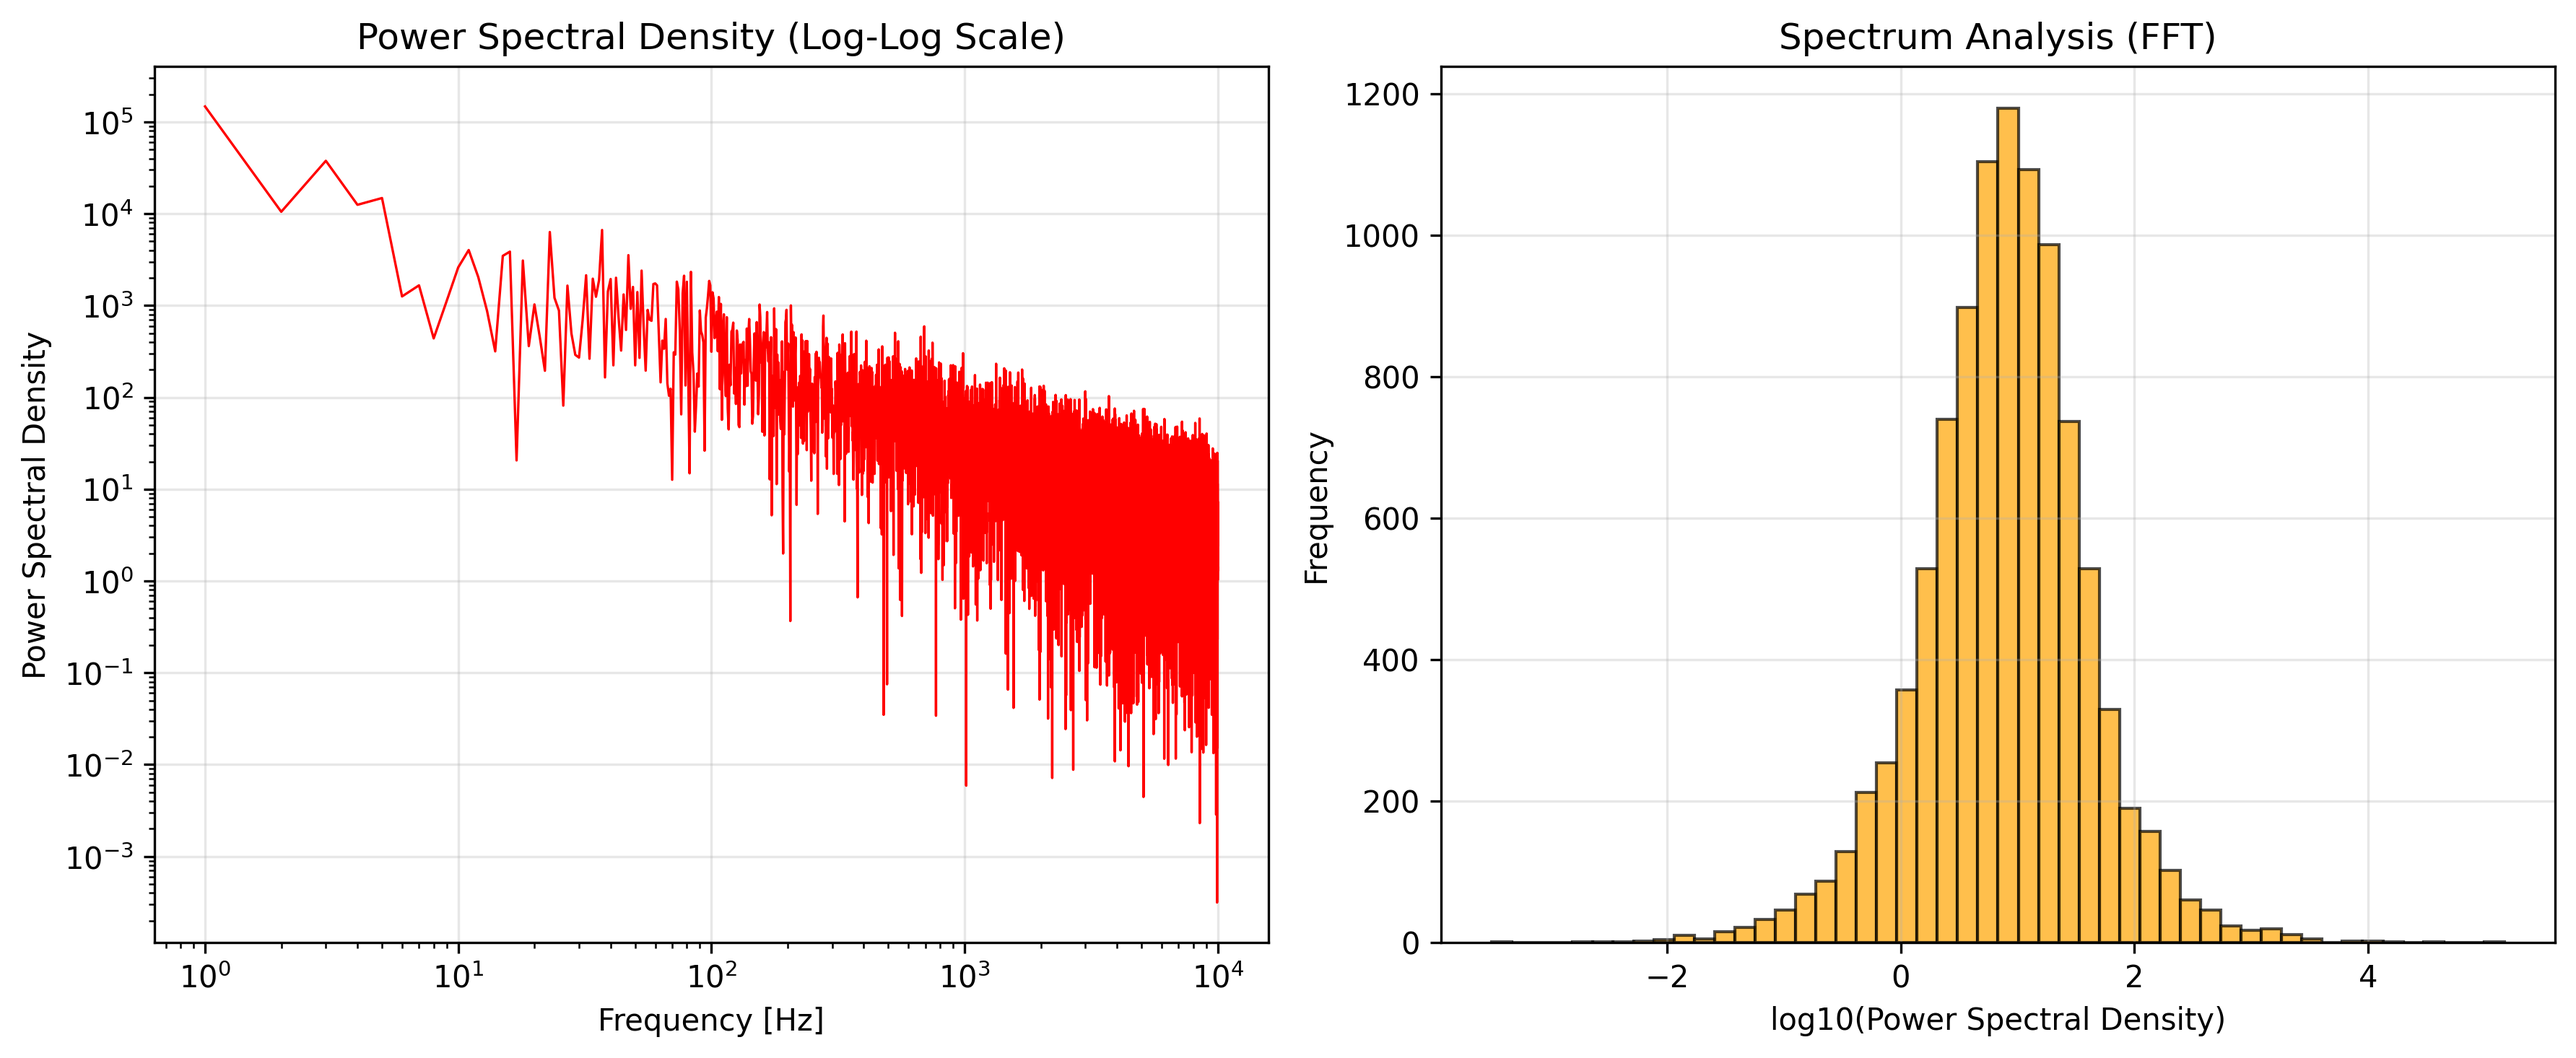
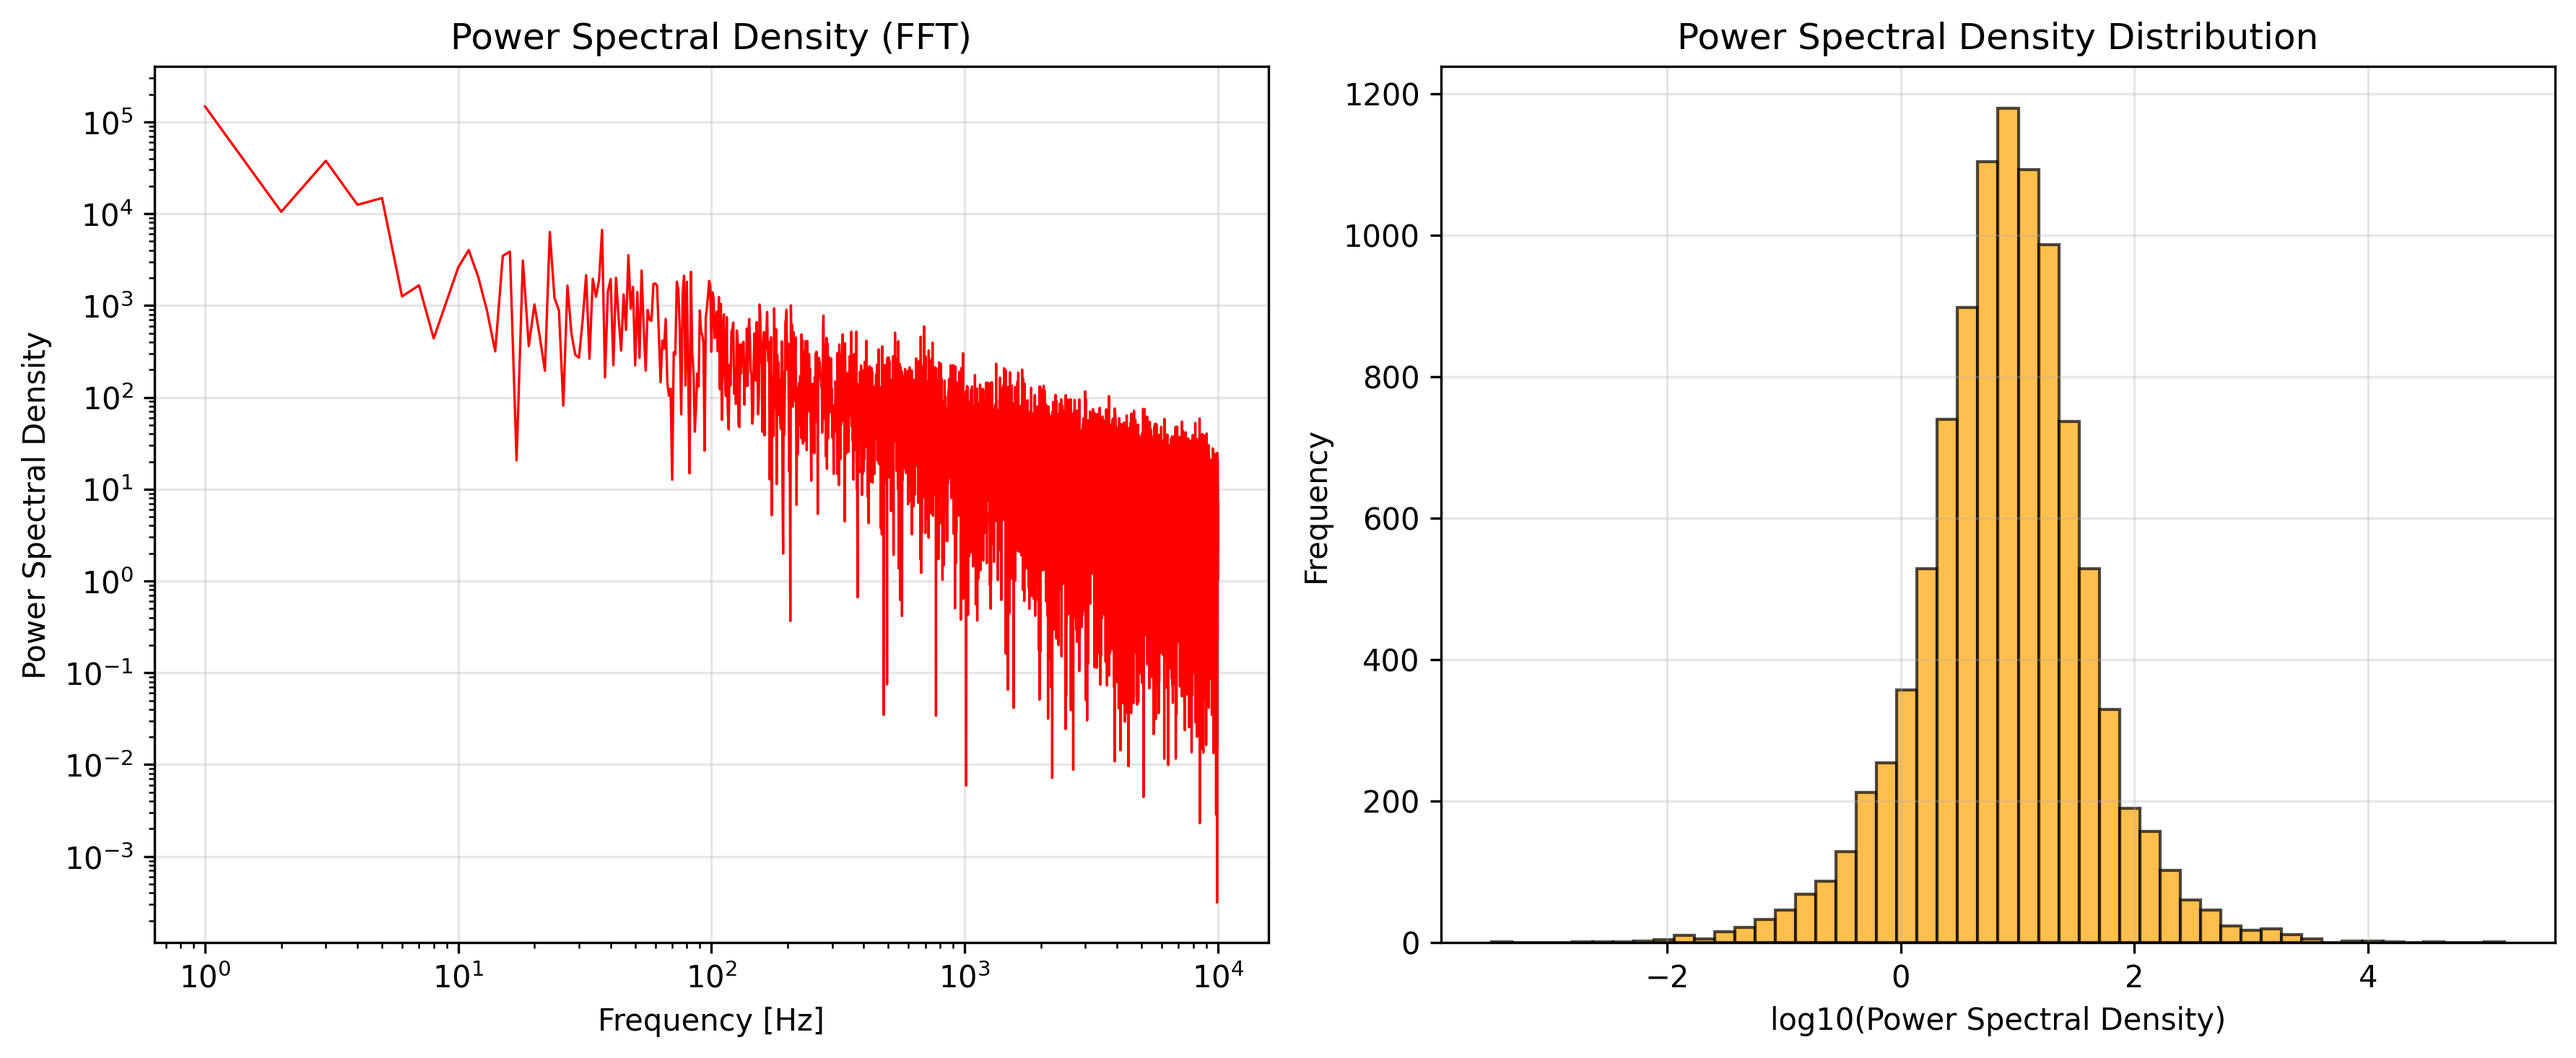
Remove documentation and requirements, update plots
Deleted README.md and requirements.txt, removing project documentation and dependency list. Updated charge_noise_simulation.py to clean up plotting code and remove unused imports. Regenerated output images for spectrum and time series analysis.

Changed region(s): [[0.1244, 0.0, 0.4044, 0.0614], [0.6533, 0.0, 0.9022, 0.0614]]

diff --git a/charge_noise_simulation.py b/charge_noise_simulation.py
@@ -11,12 +11,7 @@ import numpy as np
 import matplotlib.pyplot as plt
 from scipy import signal
 from scipy.fft import fft, fftfreq
-import seaborn as sns
 from scipy.signal import welch
-
-# Set font for better display
-#plt.rcParams['font.sans-serif'] = ['Arial', 'DejaVu Sans']
-#plt.rcParams['axes.unicode_minus'] = False
 
 # Set random seed for reproducible results
 np.random.seed(42)
@@ -79,6 +74,7 @@ def plot_time_series(t, signal_with_noise, white_noise, pink_noise):
     fig, axes = plt.subplots(1, 2, figsize=(12, 5))
     
     # Complete time series
+    axes[0].set_xlim(min(t), max(t))
     axes[0].plot(t, signal_with_noise, 'b-', alpha=0.7, linewidth=0.5)
     axes[0].set_xlabel('Time [s]')
     axes[0].set_ylabel('Signal Amplitude')
@@ -94,7 +90,6 @@ def plot_time_series(t, signal_with_noise, white_noise, pink_noise):
     
     plt.tight_layout()
     plt.savefig('time_series_analysis.png', dpi=300, bbox_inches='tight')
-    plt.show()
 
 def analyze_spectrum_welch(signal_with_noise, dt):
     """Analyze spectral characteristics using Welch method"""
@@ -131,7 +126,7 @@ def plot_spectrum(freq_positive, psd_positive, method):
     axes[0].loglog(freq_positive, psd_positive, 'r-', linewidth=0.8)
     axes[0].set_xlabel('Frequency [Hz]')
     axes[0].set_ylabel('Power Spectral Density')
-    axes[0].set_title('Power Spectral Density (Log-Log Scale)')
+    axes[0].set_title(f'Power Spectral Density ({method})')
     axes[0].grid(True, alpha=0.3)
     
     # Spectral density distribution
@@ -142,9 +137,7 @@ def plot_spectrum(freq_positive, psd_positive, method):
     axes[1].grid(True, alpha=0.3)
     
     plt.tight_layout()
-    plt.title(f'Spectrum Analysis ({method})')
     plt.savefig(f'spectrum_analysis_{method}.png', dpi=300, bbox_inches='tight')
-    plt.show()
 
 def analyze_1f_noise(frequencies, psd, freq_range=(0.1, 100)):
     """Analyze 1/f noise characteristics"""
